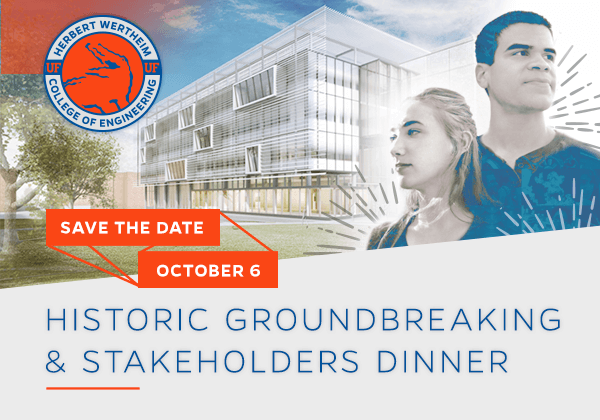
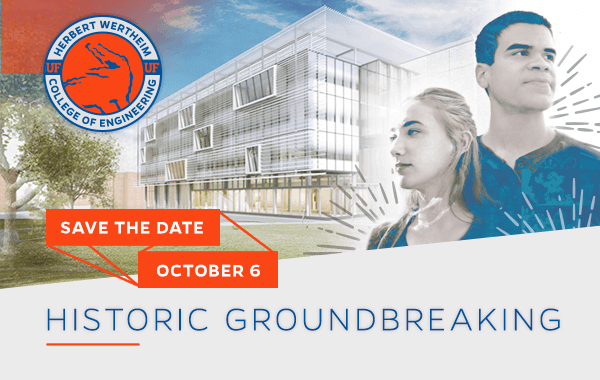
Create std eblast for groundbreaking only

diff --git a/groundbreaking/groundbreaking-stakeholders-std.html b/groundbreaking/groundbreaking-stakeholders-std.html
@@ -214,7 +214,7 @@
 					</tr>
 					<tr>
 						<td class="img" bgcolor="#ebebeb">
-							<a href="https://www.eng.ufl.edu/about/transformation/herbert-wertheim-laboratory-for-engineering-excellence/" title="Save the date - Oct. 6, 2016" target="_blank"><img src="https://www.eng.ufl.edu/eblasts/groundbreaking/images/groundbreaking-std-header.png" align="left" alt="Save the date: October 6 | Historic groundbreaking &amp; stakeholders dinner" width="600" height="380" border="0" class="header-image" /></a>
+							<a href="https://www.eng.ufl.edu/about/transformation/herbert-wertheim-laboratory-for-engineering-excellence/" title="Save the date - Oct. 6, 2016" target="_blank"><img src="https://www.eng.ufl.edu/eblasts/groundbreaking/images/groundbreaking-stakeholders-std-header.png" align="left" alt="Save the date: October 6 | Historic groundbreaking &amp; stakeholders dinner" width="600" height="420" border="0" class="header-image" /></a>
 						</td>
 					</tr>
 					<tr>
@@ -222,7 +222,7 @@
 							<table border="0" width="100%" cellpadding="0" cellspacing="0" style="border-collapse:collapse;">
 								<tr>
 									<td class="lead">
-										<strong>Let&rsquo;s celebrate!</strong> Witness history as we break ground on UF’s newest addition &ndash; the <strong>Herbert Wertheim Laboratory for Engineering Excellence.</strong>
+										<strong>Let&rsquo;s celebrate!</strong> Witness history as we break ground on UF’s newest addition &ndash; the <strong>Herbert Wertheim Laboratory for Engineering Excellence</strong> &ndash; and join us as we pay tribute to the ways YOU are powering us to transform the future!
 									</td>
 								</tr>
 								<tr>
@@ -237,12 +237,33 @@
 								</tr>
 								<tr>
 									<td class="content">
-										Join us as we begin construction on the Herbert Wertheim Laboratory for Engineering Excellence. Located in the heart of campus, it will be the home of the New Engineer &ndash; and you are cordially invited to be a part of the groundbreaking festivities.
+										Start the day with a momentous occasion, as we begin construction on the Herbert Wertheim Laboratory for Engineering Excellence. Located in the heart of  campus, it will be the home of the New Engineer – and you are cordially invited to be a part of the groundbreaking festivities.
 									</td>
 								</tr>
 								<tr>
 									<td class="highlight">
 										<a href="https://www.eng.ufl.edu/about/transformation/herbert-wertheim-laboratory-for-engineering-excellence/" target="_blank">Click here</a> for more information.
+									</td>
+								</tr>
+								<tr>
+									<td class="header1">
+										Gator Engineering Annual Stakeholders Dinner
+									</td>
+								</tr>
+								<tr>
+									<td class="header2">
+										First Anniversary of the Herbert Wertheim College of Engineering<br />
+										6:30 p.m. | Emerson Alumni Hall
+									</td>
+								</tr>
+								<tr>
+									<td class="content">
+										Your commitment to preeminent engineering research and education is transforming the college and the university, and we want to say THANK YOU. Join us for an evening of celebrating the many ways that YOU are Powering the New Engineer to Transform the Future.
+									</td>
+								</tr>
+								<tr>
+									<td class="highlight">
+										Formal invitation to follow.
 									</td>
 								</tr>
 								<tr>
@@ -315,7 +336,7 @@
 					</tr>
 					<tr>
 						<td class="footer-content" align="center">
-							<a href="https://www.eng.ufl.edu/eblasts/groundbreaking/groundbreaking-std.html" target="_blank">View this email in your browser</a>
+							<a href="https://www.eng.ufl.edu/eblasts/groundbreaking/groundbreaking-stakeholders-std.html" target="_blank">View this email in your browser</a>
 						</td>
 					</tr>
 					<tr>
